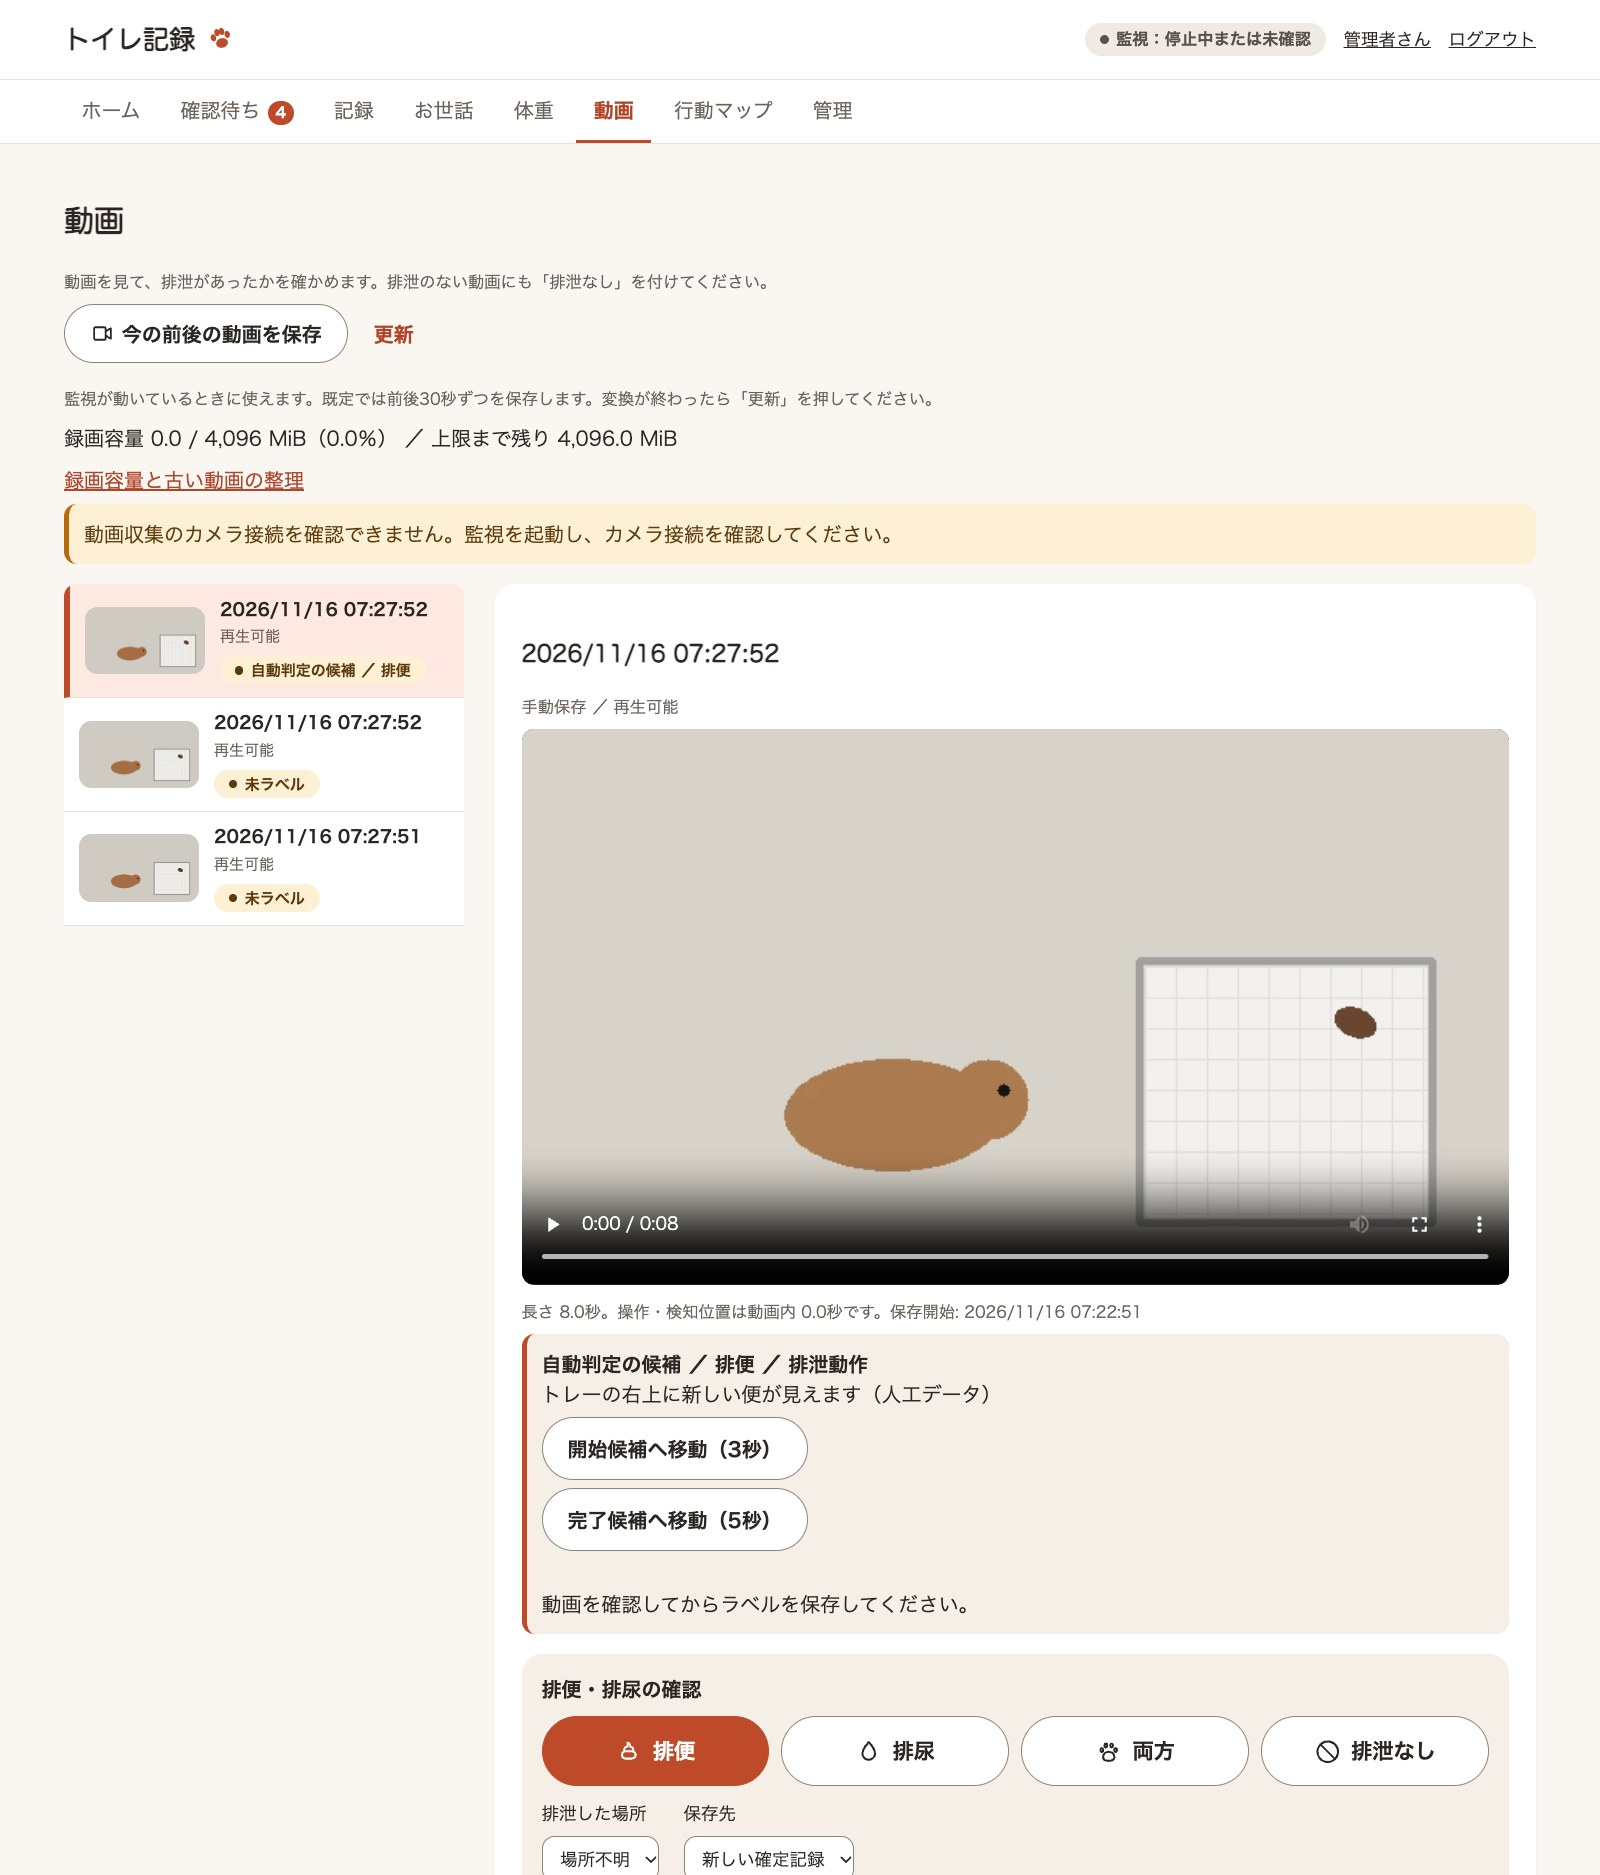
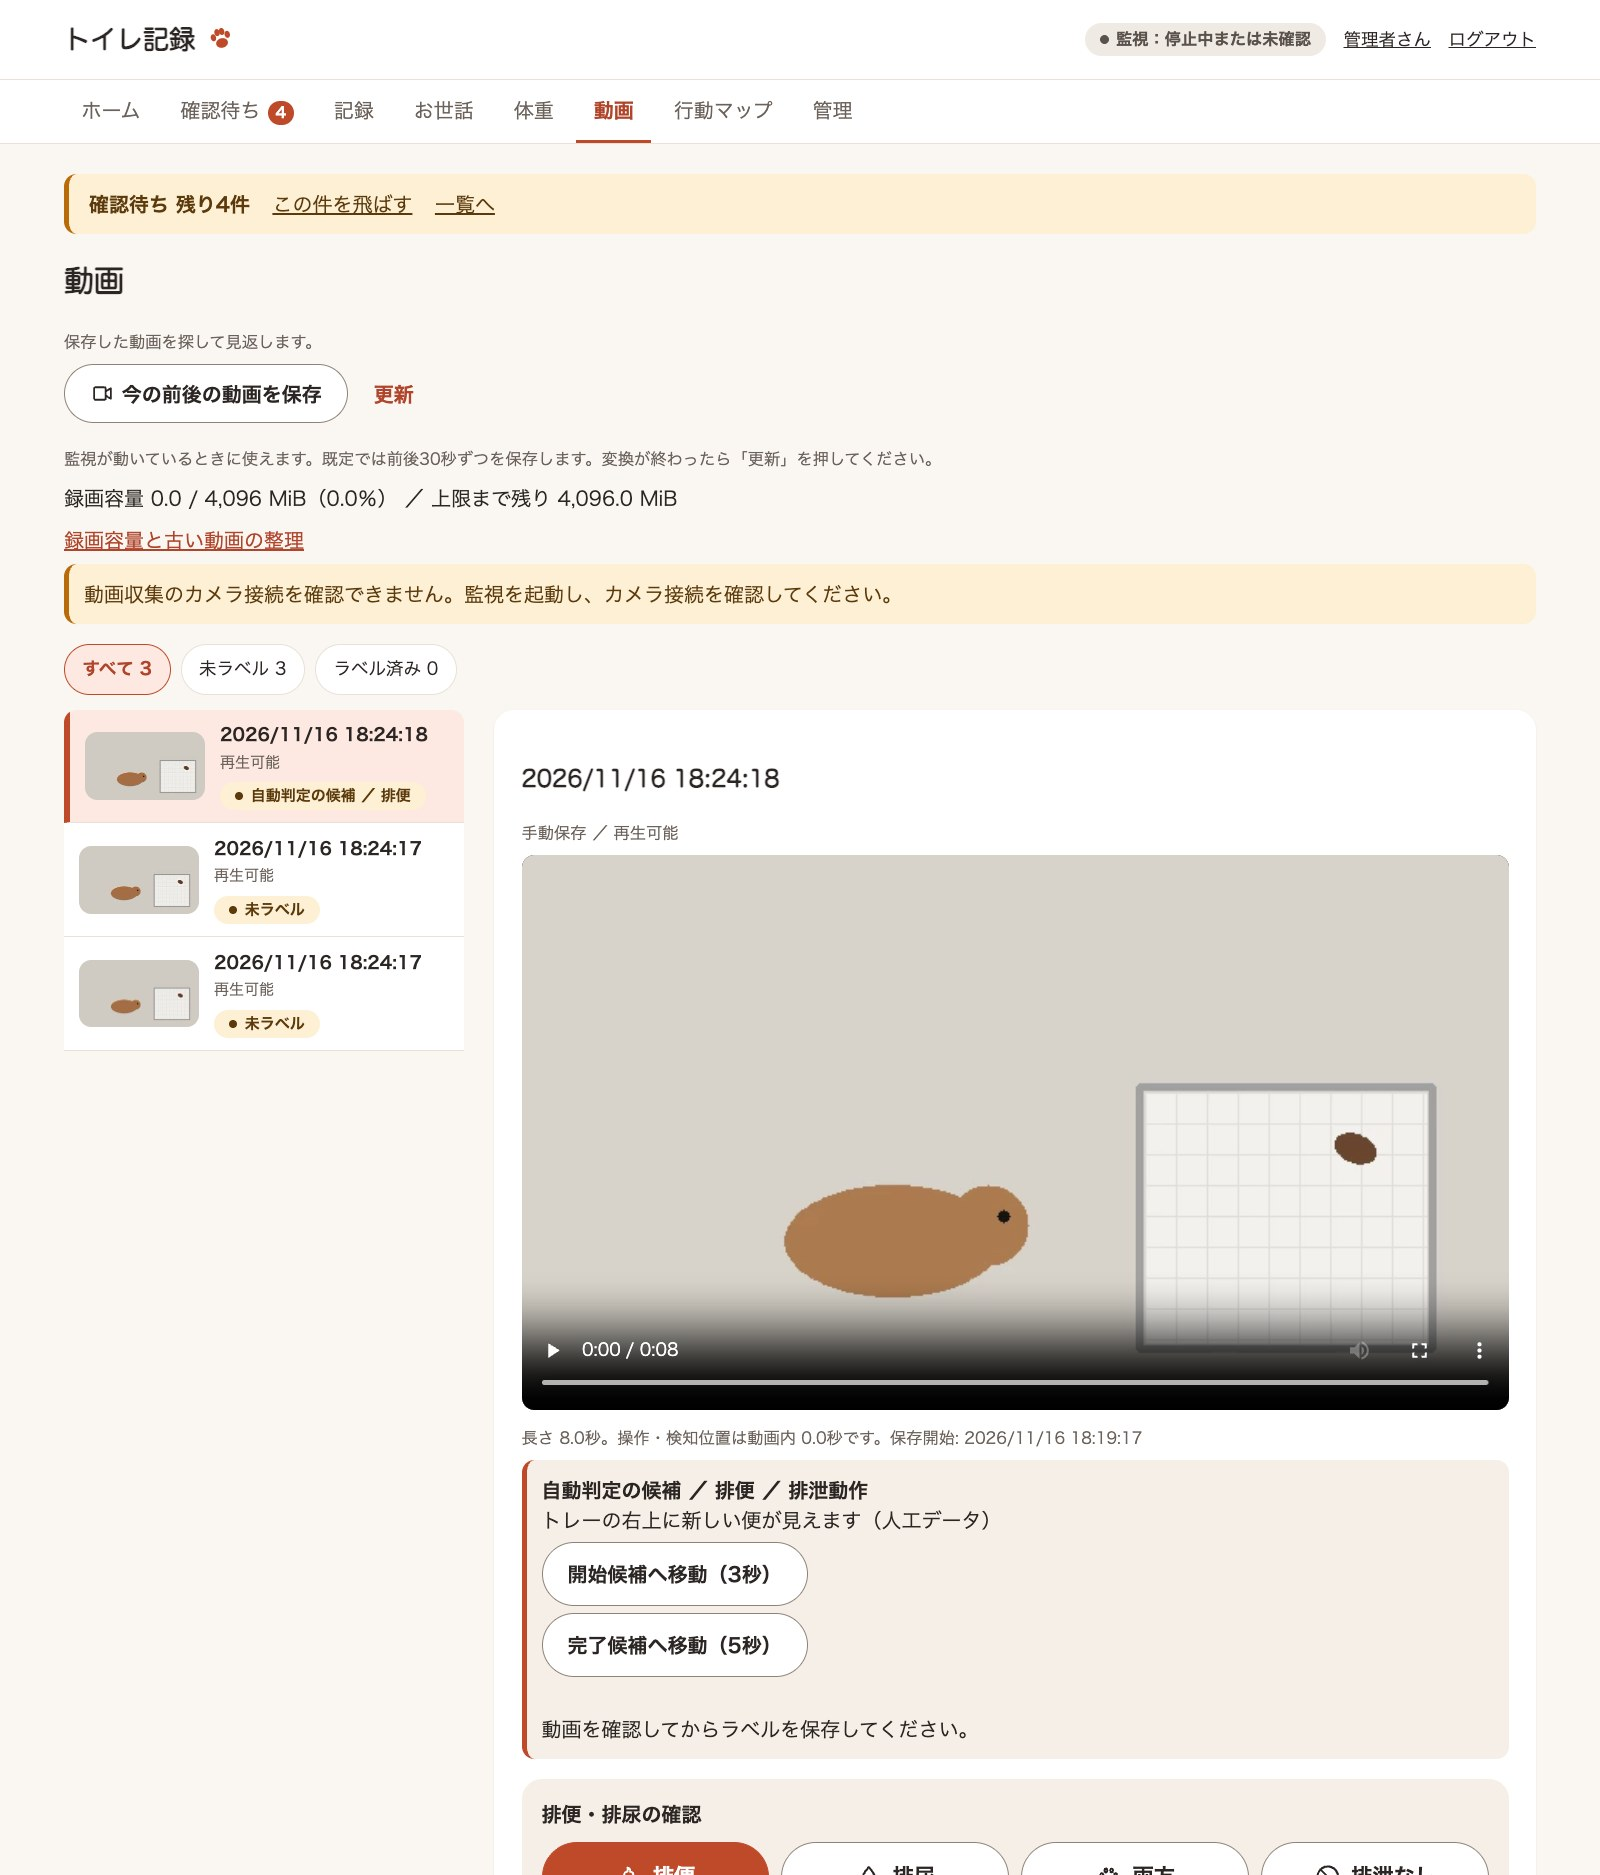
feat: 動画の一覧を状態で絞り込み、確認待ちへの入口を出す (#183)
動画の画面を、保存した動画を探して見返す場所にする（#180）。
一覧を「すべて・未ラベル・ラベル済み」で絞り込めるようにし、
確認待ちが残っているときだけ、確認待ちへの入口を1つ出す。

diff --git a/src/poop_detector/gui/templates/clips.html b/src/poop_detector/gui/templates/clips.html
@@ -4,18 +4,23 @@
 {% block content %}
 {% include "_review_bar.html" %}
 {% if not focused %}
-<h2>動画</h2><p class="note">動画を見て、排泄があったかを確かめます。排泄のない動画にも「排泄なし」を付けてください。</p><form method="post" action="/clips/request" class="toolbar">{{ csrf_field(token) }}<button class="secondary">{{ icon("video") }} 今の前後の動画を保存</button><a class="button ghost" href="/clips">更新</a></form><p class="note">監視が動いているときに使えます。既定では前後30秒ずつを保存します。変換が終わったら「更新」を押してください。</p>{{ capacity_panel(capacity) }}{% if viewer_admin %}<p><a href="/manage/storage">録画容量と古い動画の整理</a></p>{% endif %}
+<h2>動画</h2><p class="note">保存した動画を探して見返します。</p>{% if waiting and not review %}<p class="message message-info" role="status">確認待ちが{{ waiting }}件あります。<a href="/review">確認待ちを開く</a></p>{% endif %}<form method="post" action="/clips/request" class="toolbar">{{ csrf_field(token) }}<button class="secondary">{{ icon("video") }} 今の前後の動画を保存</button><a class="button ghost" href="/clips">更新</a></form><p class="note">監視が動いているときに使えます。既定では前後30秒ずつを保存します。変換が終わったら「更新」を押してください。</p>{{ capacity_panel(capacity) }}{% if viewer_admin %}<p><a href="/manage/storage">録画容量と古い動画の整理</a></p>{% endif %}
 {% if not live %}<div class="message message-warn" role="status">動画収集のカメラ接続を確認できません。監視を起動し、カメラ接続を確認してください。</div>{% endif %}
 {% if saved %}<div class="message" role="status">保存しました。</div>{% endif %}
 {% endif %}
+{% if not focused %}<nav class="filter-menu" aria-label="表示する動画"><ul>
+{%- for filter in filters -%}
+<li><a href="{{ filter.url }}"{% if filter.current %} aria-current="true"{% endif %}>{{ filter.text }}</a></li>
+{%- endfor -%}
+</ul></nav>{% endif %}
 <div class="workspace{% if focused %} reviewing{% endif %}">{% if not focused %}<nav id="clip-list" aria-label="動画一覧">
 {%- for item in items -%}
-<a class="{% if item.active %}active{% endif %}" href="/clips?id={{ item.id }}"{% if item.active %} aria-current="true"{% endif %}><span class="clip-thumb">{% if item.thumbnail %}<img src="/clip-thumbnail?id={{ item.id }}" alt="" loading="lazy" decoding="async">{% else %}{{ icon("video") }}{% endif %}</span><span class="clip-text">{{ item.time }}<small>{{ item.status }}</small>{{ chip(item.label, item.state) }}</span></a>
+<a class="{% if item.active %}active{% endif %}" href="{{ item.url }}"{% if item.active %} aria-current="true"{% endif %}><span class="clip-thumb">{% if item.thumbnail %}<img src="/clip-thumbnail?id={{ item.id }}" alt="" loading="lazy" decoding="async">{% else %}{{ icon("video") }}{% endif %}</span><span class="clip-text">{{ item.time }}<small>{{ item.status }}</small>{{ chip(item.label, item.state) }}</span></a>
 {%- endfor -%}
 </nav>{% endif %}<article id="clip-detail">
 {% if clip is none %}
 {% if notice %}<p>指定された動画を確認できません。<a href="/records/events?manual=1#manual-record">手動で記録する</a></p>{% endif %}
-<div class="empty"><h3>動画はまだありません</h3><p>監視を起動して保存ボタンを押すか、自動検知を待ってください。</p></div>
+{% if any_clips %}<div class="empty"><h3>この条件の動画はありません</h3><p>「すべて」に切り替えてください。</p></div>{% else %}<div class="empty"><h3>動画はまだありません</h3><p>監視を起動して保存ボタンを押すか、自動検知を待ってください。</p></div>{% endif %}
 {% else %}
 <h3>{{ clip.time }}</h3><p class="note">{{ clip.source }} ／ {{ clip.status }}</p>
 {% if notice_unavailable %}<p>動画ファイルを確認できません。<a href="/records/events?manual=1#manual-record">手動で記録する</a></p>{% endif %}

diff --git a/src/poop_detector/gui/templates/style.css b/src/poop_detector/gui/templates/style.css
@@ -112,6 +112,7 @@ main table{max-width:100%}main th{font-size:13px;font-weight:600;color:var(--mut
 .review-list{list-style:none;padding:0;margin:16px 0;background:var(--surface);border-radius:var(--radius);overflow:hidden;box-shadow:var(--shadow)}.review-list a{display:flex;align-items:center;gap:14px;padding:12px 16px;border-bottom:1px solid var(--border);color:inherit;text-decoration:none}.review-list li:last-child a{border-bottom:0}.review-list a:hover{background:var(--surface-2)}.review-list .clip-thumb{width:128px}.review-list .clip-text{flex:1;font-size:15px}.review-go{flex:none;color:var(--muted)}.review-go .icon{width:20px;height:20px}
 .workspace.reviewing{grid-template-columns:minmax(0,1fr)}
 /* 動画の一覧。サムネイルと状態のラベルで、開く前に見分けられるようにする */
+.filter-menu{margin:0 0 12px;overflow-x:auto}.filter-menu ul{list-style:none;margin:0;padding:0;display:flex;gap:8px}.filter-menu a{display:block;padding:9px 14px;color:var(--text);background:var(--surface);border:1px solid var(--border);border-radius:var(--radius-pill);font-size:14px;text-decoration:none;white-space:nowrap}.filter-menu a[aria-current]{font-weight:700;color:var(--menu-current);background:var(--primary-soft);border-color:var(--primary)}
 #clip-list a{display:flex;align-items:center;gap:12px;padding:10px 12px}
 .clip-thumb{flex:none;display:grid;place-items:center;width:96px;aspect-ratio:16/9;border-radius:var(--radius-small);background:var(--surface-2);color:var(--muted);overflow:hidden}.clip-thumb img{width:100%;height:100%;object-fit:cover;display:block}.clip-thumb .icon{width:22px;height:22px}
 .clip-text{min-width:0;font-weight:600;font-size:14px}.clip-text small{font-weight:400;margin:2px 0 6px}.clip-text .chip{white-space:normal;font-size:12px}

diff --git a/src/poop_detector/gui/clip_pages.py b/src/poop_detector/gui/clip_pages.py
@@ -4,6 +4,7 @@ import re
 from collections.abc import Callable, Iterable, Iterator, Mapping, Sequence
 from pathlib import Path
 from typing import TYPE_CHECKING, Any, cast
+from urllib.parse import urlencode
 
 from ..records.events import EXCRETION_LOCATIONS, EXCRETION_TYPES
 from ..video.benchmark_candidates import CONDITION_TAGS, EVALUATED_LABELS, Candidate
@@ -49,10 +50,37 @@ SOURCES = {
     "toilet_reentry": "排泄後の再侵入",
     "outside_stay": "トレー外での滞在",
 }
+# 一覧の絞り込み（?show=）。値は、動画の行がその条件に入るかを返す。
+CLIP_FILTERS: dict[str, tuple[str, Callable[[Mapping[str, Any]], bool]]] = {
+    "all": ("すべて", lambda _row: True),
+    "unlabeled": ("未ラベル", lambda row: row["label"] is None),
+    "labeled": ("ラベル済み", lambda row: row["label"] is not None),
+}
+
+
+def _clips_url(mode: str, clip_id: str | None = None) -> str:
+    """動画の画面の URL。絞り込みが「すべて」のときは付けない。"""
+    values = ({"id": clip_id} if clip_id else {}) | ({"show": mode} if mode != "all" else {})
+    return "/clips" + ("?" + urlencode(values) if values else "")
+
+
+def clip_filters(rows: Sequence[Mapping[str, Any]], mode: str) -> list[dict[str, Any]]:
+    """絞り込みのボタン。それぞれの条件に入る本数を添える。"""
+    return [
+        {
+            "text": f"{text} {sum(1 for row in rows if shown(row))}",
+            "url": _clips_url(value),
+            "current": value == mode,
+        }
+        for value, (text, shown) in CLIP_FILTERS.items()
+    ]
 
 
 def clip_list_item(
-    item: Mapping[str, Any], selected: str | None, candidate: Candidate | None = None
+    item: Mapping[str, Any],
+    selected: str | None,
+    candidate: Candidate | None = None,
+    mode: str = "all",
 ) -> dict[str, Any]:
     from .pages import local_time
 
@@ -72,6 +100,7 @@ def clip_list_item(
         label += " ／ " + CANDIDATE_STATES[candidate.state]
     return {
         "id": item["id"],
+        "url": _clips_url(mode, item["id"]),
         "active": item["id"] == selected,
         "time": local_time(item["requested_at"]),
         "status": STATES.get(item["status"], item["status"]),
@@ -255,7 +284,14 @@ def render_clips(
     rows = store.list(include_assessments=True)
     selected = query.get("id", [""])[0]
     notice = bool(query.get("notice")) and bool(selected)
-    row = next((r for r in rows if r["id"] == selected), rows[0] if rows and not notice else None)
+    mode = query.get("show", ["all"])[0]
+    if mode not in CLIP_FILTERS:
+        mode = "all"
+    listed = [r for r in rows if CLIP_FILTERS[mode][1](r)]
+    # ID で指定した動画は、絞り込みの外でも開く。指定がなければ、絞り込んだ一覧の先頭。
+    row = next(
+        (r for r in rows if r["id"] == selected), listed[0] if listed and not notice else None
+    )
     raw_assessment = store.assessments.get(row["id"]) if row else None
     context: dict[str, Any] = {
         "clip": None,
@@ -302,9 +338,12 @@ def render_clips(
         saved=bool(query.get("saved")),
         benchmark_saved=bool(query.get("benchmark_saved")),
         items=[
-            clip_list_item(item, row["id"] if row else None, candidates.get(item["id"]))
-            for item in rows
+            clip_list_item(item, row["id"] if row else None, candidates.get(item["id"]), mode)
+            for item in listed
         ],
+        filters=clip_filters(rows, mode),
+        any_clips=bool(rows),
+        waiting=len(queue),
         clip_labels=list(CLIP_LABELS.items()),
         activities=list(ACTIVITIES.items()),
         locations=list(EXCRETION_LOCATIONS.items()),

diff --git a/tests/test_clip_gui.py b/tests/test_clip_gui.py
@@ -194,3 +194,55 @@ def test_invalid_confirmation_leaves_video_label_and_records_intact(gui):
         assert submit(server, "/clips/confirm", {"id": clip, **fields})[0] == 400
         assert clips.get(clip)["label"] is None
         assert store.records() == []
+
+
+def test_clip_list_can_be_narrowed_by_label_state(gui):
+    """動画の一覧は探す場所。未ラベル・ラベル済みで絞り込める。"""
+    from poop_detector.video.clips import ClipStore
+
+    server, store, _ = gui
+    clips = ClipStore(store.root)
+    labeled, waiting = ready_clip(clips), ready_clip(clips)
+    clips.labels.save(labeled, ClipLabel("none", None, None, "other", "", None))
+
+    everything = request(server, "GET", "/clips")[1].decode()
+    assert '<a href="/clips" aria-current="true">すべて 2</a>' in everything
+    assert '<a href="/clips?show=unlabeled">未ラベル 1</a>' in everything
+    assert '<a href="/clips?show=labeled">ラベル済み 1</a>' in everything
+
+    narrowed = request(server, "GET", "/clips?show=labeled")[1].decode()
+    assert '<a href="/clips?show=labeled" aria-current="true">ラベル済み 1</a>' in narrowed
+    # 絞り込んだ一覧の先頭を開き、行のリンクは絞り込みを保つ。
+    assert f'class="active" href="/clips?id={labeled}&amp;show=labeled"' in narrowed
+    assert f"/clips?id={waiting}" not in narrowed
+
+    # 一覧にない動画を ID で開いても、その動画は見られる。
+    other = request(server, "GET", f"/clips?id={waiting}&show=labeled")[1].decode()
+    assert f'name="id" value="{waiting}"' in other
+    # 知らない値は「すべて」として扱う。
+    assert 'aria-current="true">すべて 2</a>' in request(server, "GET", "/clips?show=x")[1].decode()
+
+
+def test_empty_filter_says_so_instead_of_no_clips_yet(gui):
+    from poop_detector.video.clips import ClipStore
+
+    server, store, _ = gui
+    ready_clip(ClipStore(store.root))
+    page = request(server, "GET", "/clips?show=labeled")[1].decode()
+    assert "この条件の動画はありません" in page
+    assert "動画はまだありません" not in page
+
+
+def test_clip_page_points_to_the_review_when_something_waits(gui):
+    """ラベル付けの入口は確認待ち。動画の画面には、残っているときだけ入口を1つ出す。"""
+    from poop_detector.video.clips import ClipStore
+
+    server, store, event_id = gui
+    page = request(server, "GET", "/clips")[1].decode()
+    assert "保存した動画を探して見返します" in page
+    assert '確認待ちが1件あります。<a href="/review">確認待ちを開く</a>' in page
+
+    store.classify(event_id, "false")
+    clips = ClipStore(store.root)
+    clips.labels.save(ready_clip(clips), ClipLabel("none", None, None, "other", "", None))
+    assert "確認待ちが" not in request(server, "GET", "/clips")[1].decode()

diff --git a/docs/screens.md b/docs/screens.md
@@ -23,7 +23,7 @@ GUI の画面の配置と遷移、CLI に残す操作をまとめます（Issue 
 | 確認待ち | `/review` | 全員 | 未ラベルの検知イベントと、排泄に関わる未ラベルの動画を新しい順に並べる（サムネイル・きっかけ・自動判定の候補付き）。保存すると次の件を開く |
 | 記録 | `/records` | 全員 | 日別の回数（大きな数字）と時間帯別の回数、確定記録の一覧（種類のアイコン付きの時系列） |
 | 記録 › 検知の一覧 | `/records/events` | 全員 | 検知イベントの一覧（絞り込み）とラベル付け・修正、目視で確認した排泄の記録の追加 |
-| 動画 | `/clips` | 全員 | 一覧（サムネイルと状態のラベル付き）・再生・ラベル・確定・保存要求・保護、自動判定と旋回候補、判定器の比較に使う評価の候補と条件のタグ |
+| 動画 | `/clips` | 全員 | 保存した動画を探して見返す場所。一覧（サムネイルと状態のラベル付き。「すべて・未ラベル・ラベル済み」で絞り込める。`?show=`）・再生・ラベル・確定・保存要求・保護、確認待ちが残っているときの入口、自動判定と旋回候補、判定器の比較に使う評価の候補と条件のタグ |
 | 行動マップ | `/activity` | 全員 | 滞在時間・通過回数のヒートマップ |
 | 管理 › 稼働状況とトレー | `/manage` | 管理者 | 監視・カメラ・トレー追従の状態（色付きのラベル。画面を開いたままでも色と文字を更新する）、直近の停止（監視の停止・カメラの不調・判定器の停止の履歴）、トレー交換（範囲の描画、基準のプレビュー） |
 | 管理 › 初回セットアップ | `/manage/setup` | 管理者 | カメラ接続、トレー登録、監視開始、家族の招待と通知の案内 |
